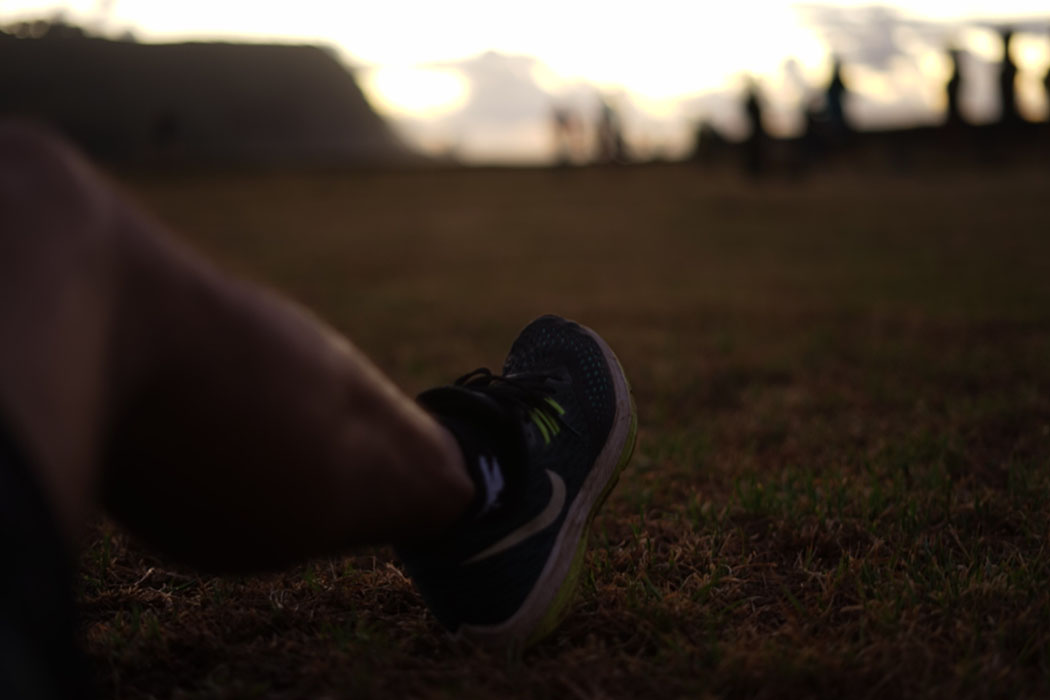
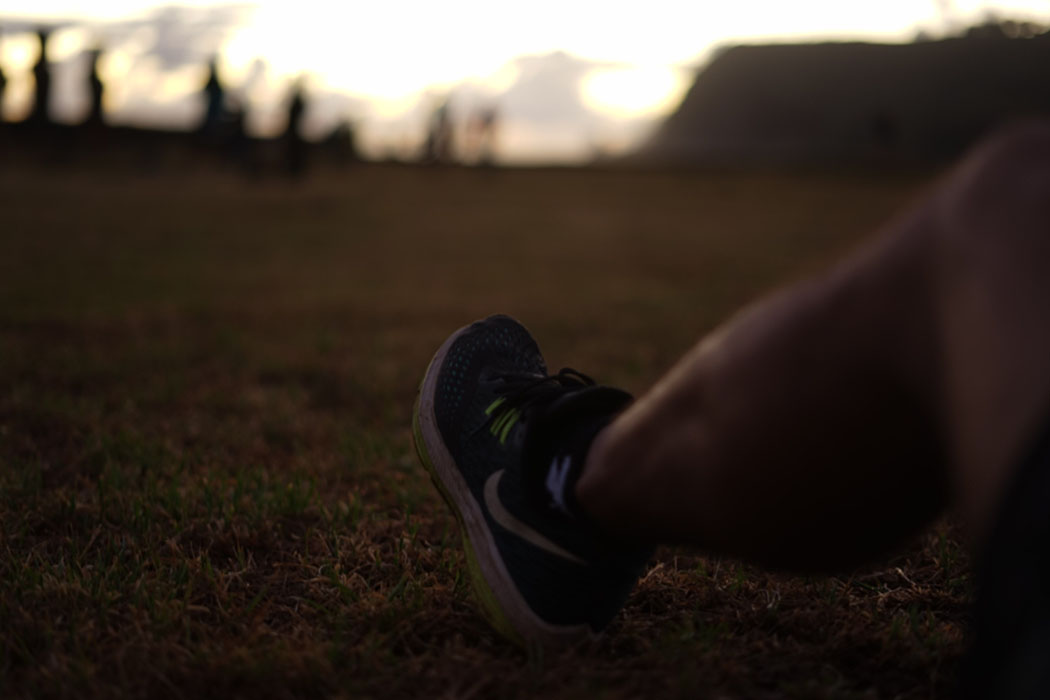
Modificacion Head

diff --git a/index.html b/index.html
@@ -48,24 +48,26 @@
     </nav>
     <!--///// FIN BARA NAVEGACION /////-->
 
-    <header id="Hero-Section" class="text-light text-end py-5 mt-5">
+    <!--///// INICIO: HEADER /////-->
+    <header id="Hero-Section" class="text-light text-star py-5 mt-5">
         <div class="container">
-            <div class="ms-auto col-12 col-md-7 ">
+            <div class="col-12 col-md-7 ">
                 <h1 class="display-1 fw-bold my-5">
-                    Comidas del fin <br> del mundo
+                    Correr en bueno<br> a no dudar!
                 </h1>
                 <p class="my-5">
-                    Lorem ipsum dolor sit amet consectetur adipisicing elit. Facilis, accusamus iusto quibusdam
-                    dignissimos labore sequi. Cupiditate reiciendis eius dolore, illum adipisci harum voluptas iste
-                    mollitia inventore provident labore voluptatum nemo.
+                    Se tonifican y fortalecen los músculos. Se fortalece el corazón y mejora el riesgo sanguíneo. Se
+                    aumenta la capacidad pulmonar y la resistencia al esfuerzo. Se combate el estrés y se adquiere un
+                    estado mental más equilibrado.
                 </p>
                 <div class="mb-5 pb-5">
-                    <button class="btn btn-lg btn-outline-info text-light me-4">Trabajos</button>
-                    <button class="btn btn-lg btn-info text-light">Contacto</button>
+                    <button class="btn btn-lg btn-outline-warning text-light me-4">Rutas</button>
+                    <button class="btn btn-lg btn-warning text-light">Contacto</button>
                 </div>
             </div>
         </div>
     </header>
+    <!--///// FIN: HEADER /////-->
 
 
     <section id="Acerca-de-mi" class="container text-center my-5">

diff --git a/assets/css/estilos.css b/assets/css/estilos.css
@@ -5,7 +5,7 @@ body {
 /* Hero Section */
 
 #Hero-Section {
-  background-image: url("../img/bg-hero.jpg");
+  background-image: url("../img/bg-header.jpg");
   background-repeat: no-repeat;
   background-size: cover;
   background-position: left;
